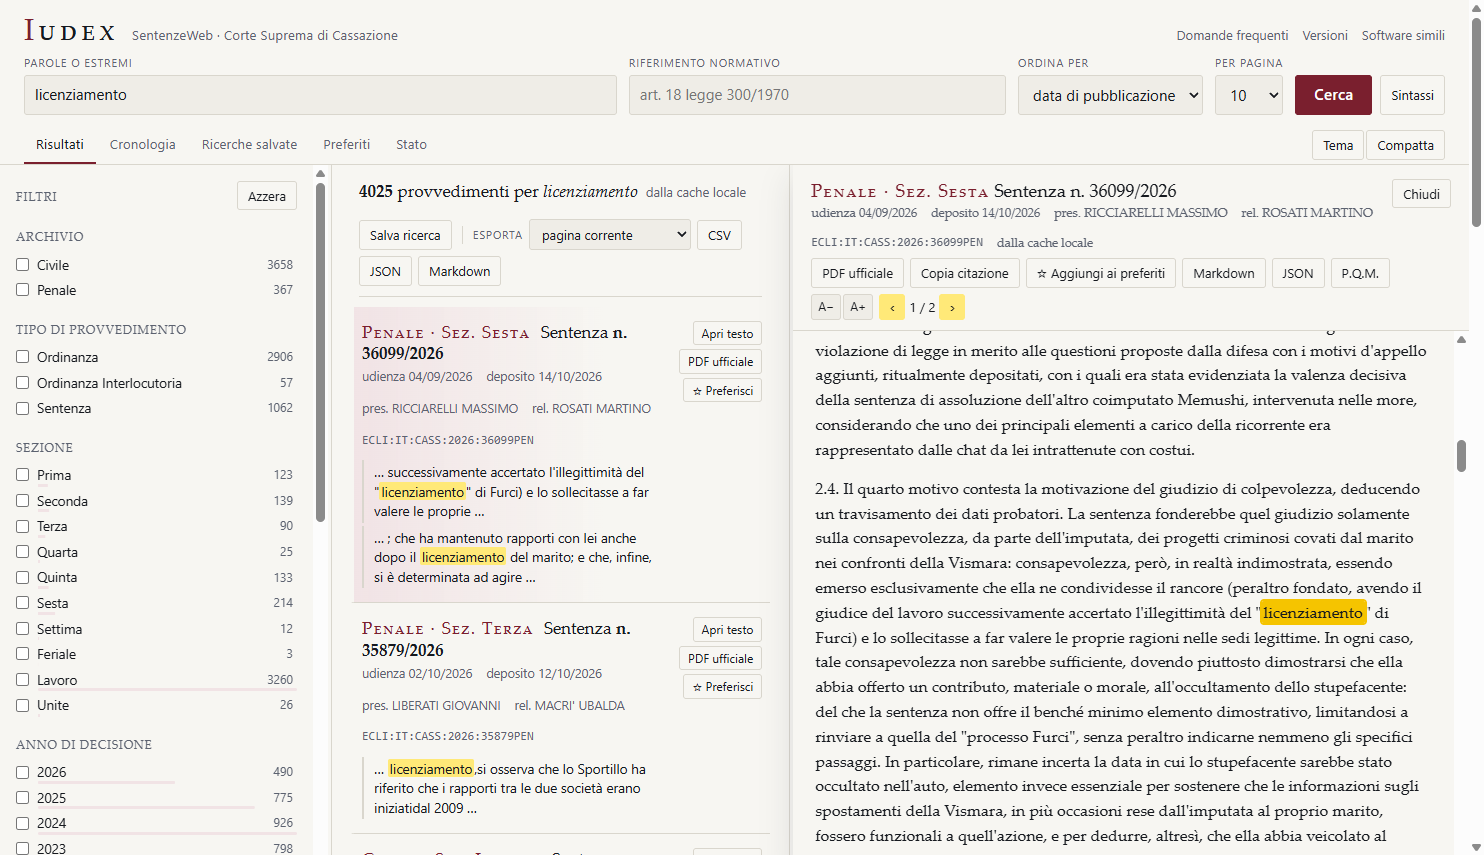
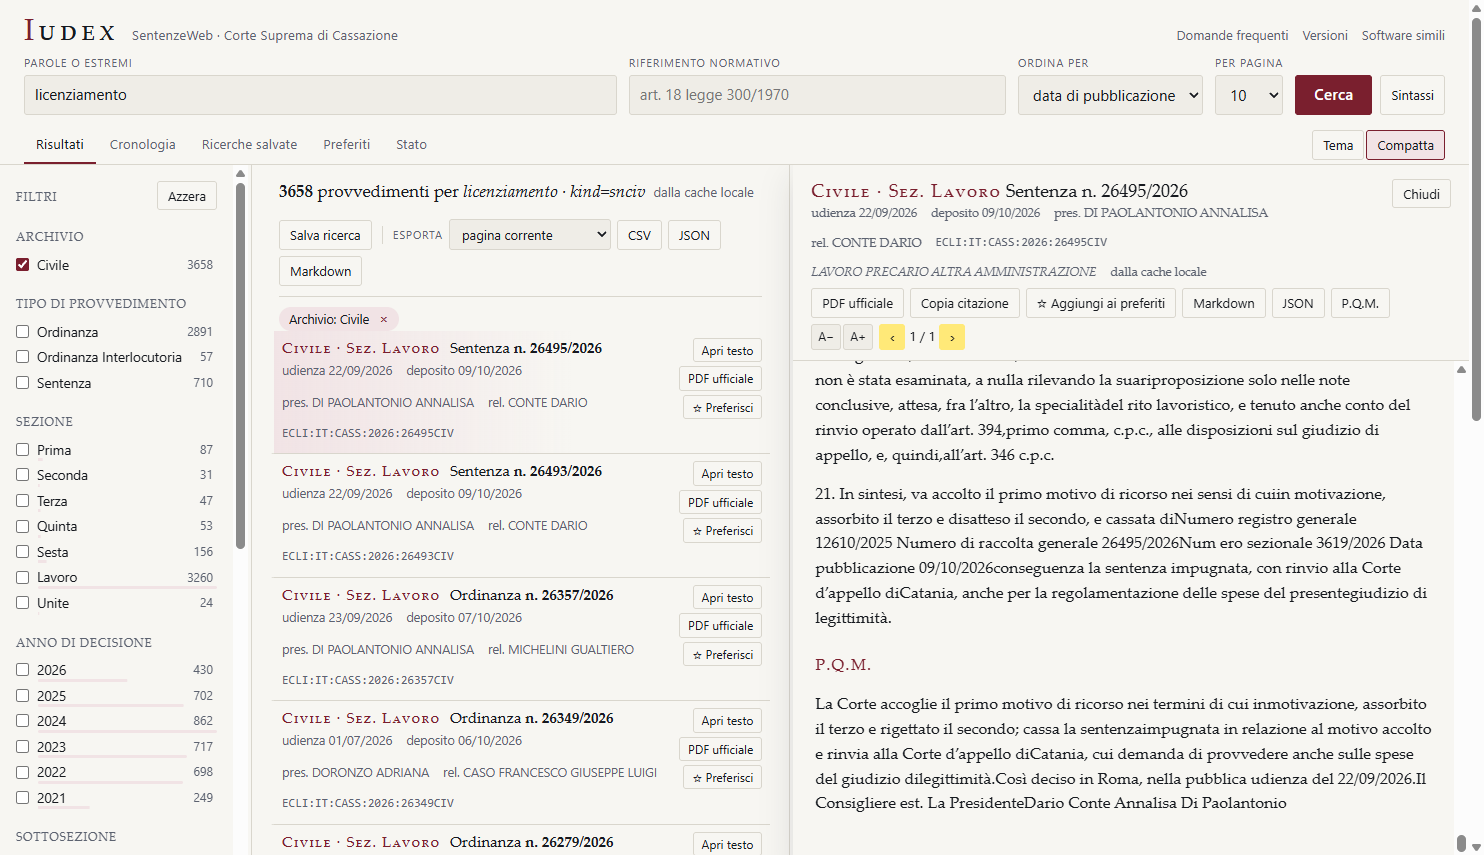
README: schermate della 0.2.0 (risultati con lettura, tema scuro, domande frequenti)

diff --git a/README.md b/README.md
@@ -7,7 +7,7 @@ Iudex non è un archivio e non copia la banca dati: ogni ricerca interroga il se
 Corte come farebbe il browser, ma con un'interfaccia pensata per leggere e confrontare,
 una cronologia, i preferiti, l'esportazione e una cache locale dei testi già aperti.
 
-![Iudex: pagina dei risultati con il pannello di lettura](docs/immagini/risultati.png)
+![Iudex: risultati in vista compatta con il filtro "Civile" attivo e il pannello di lettura aperto sul dispositivo di una sentenza](docs/immagini/risultati.png)
 
 ## Che cosa fa
 
@@ -29,6 +29,21 @@ una cronologia, i preferiti, l'esportazione e una cache locale dei testi già ap
   scuro, righe compatte, carattere regolabile, scorciatoie da tastiera, nessuna dipendenza
   esterna nel browser.
 - Pagine integrate di **domande frequenti**, **versioni** e **software simili**.
+
+## Schermate
+
+Vista compatta con tema scuro: solo estremi, date, presidente, relatore ed ECLI; i filtri a
+sinistra con le barre proporzionali.
+
+![Iudex: tema scuro, righe compatte](docs/immagini/tema-scuro.png)
+
+Le pagine informative integrate (domande frequenti, versioni, software simili) usano lo
+stesso stile e sono raggiungibili dal menu in alto a destra.
+
+![Iudex: pagina delle domande frequenti](docs/immagini/domande-frequenti.png)
+
+Le schermate mostrano ricerche reali; per rispetto delle persone citate nei provvedimenti
+sono state scelte viste senza nomi delle parti.
 
 ## Come interroga il sito (e perché è più leggero del sito stesso)
 
